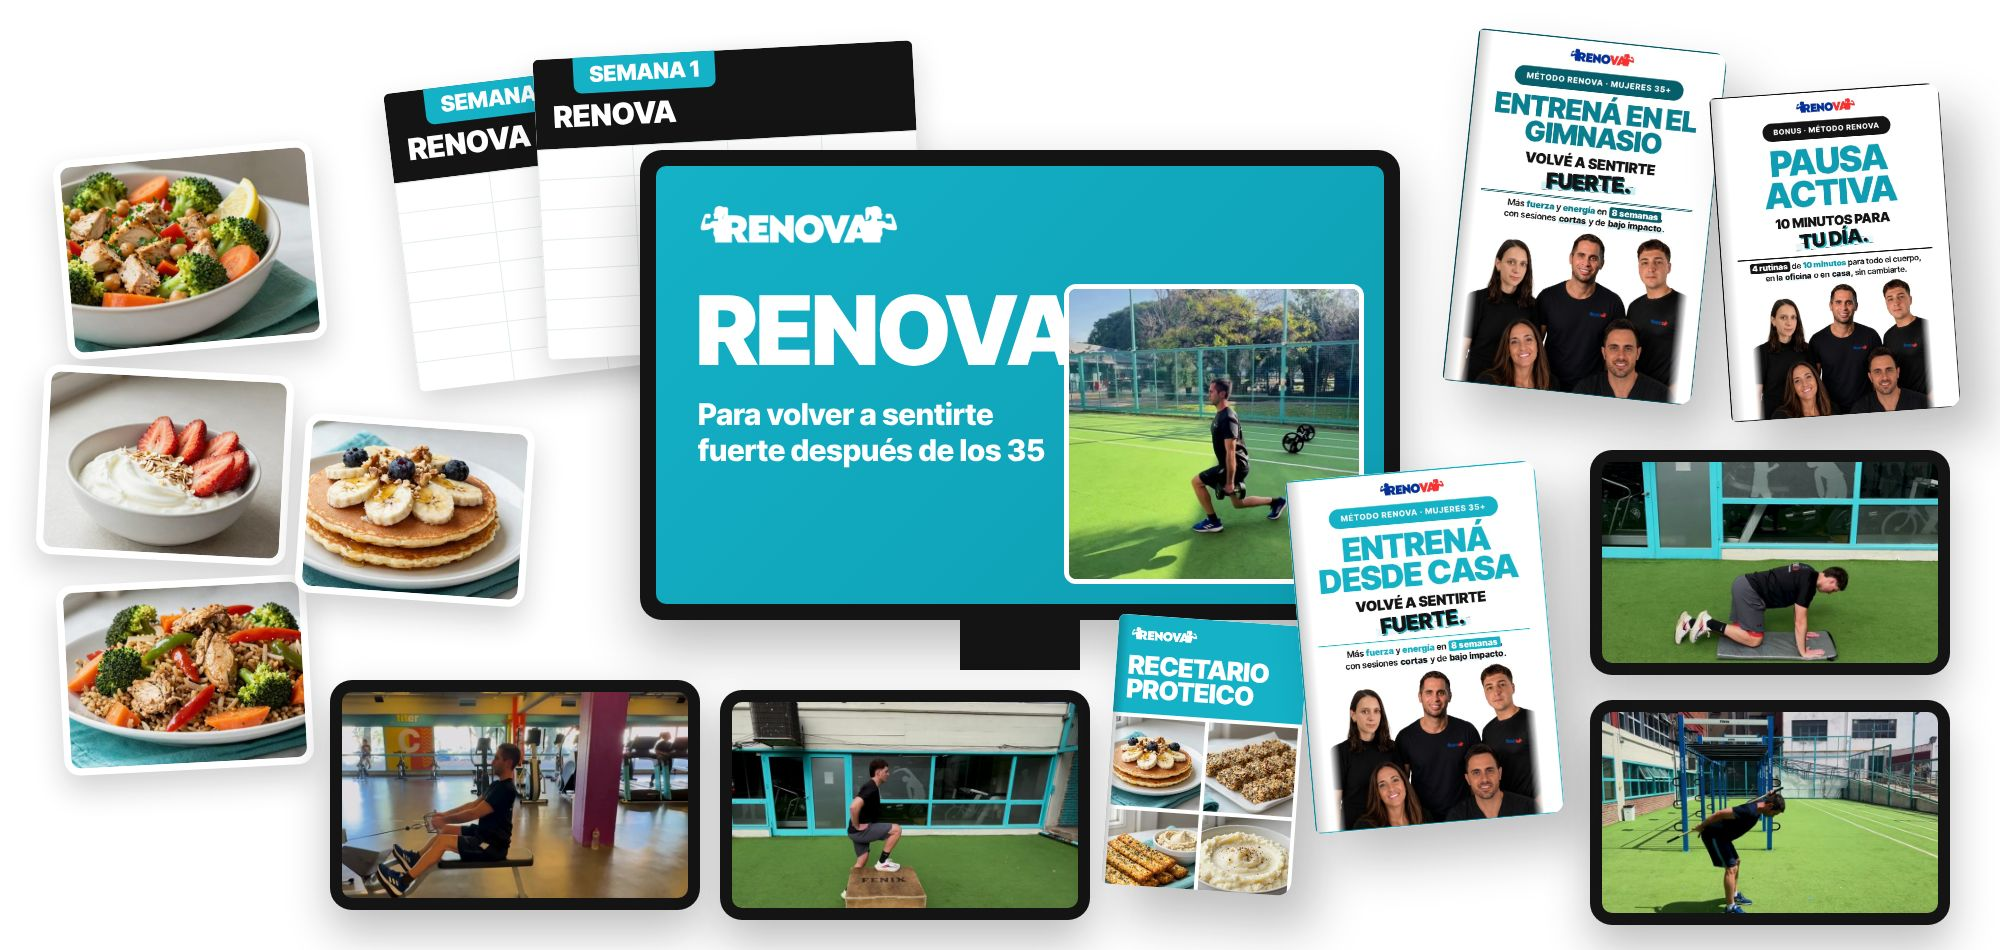
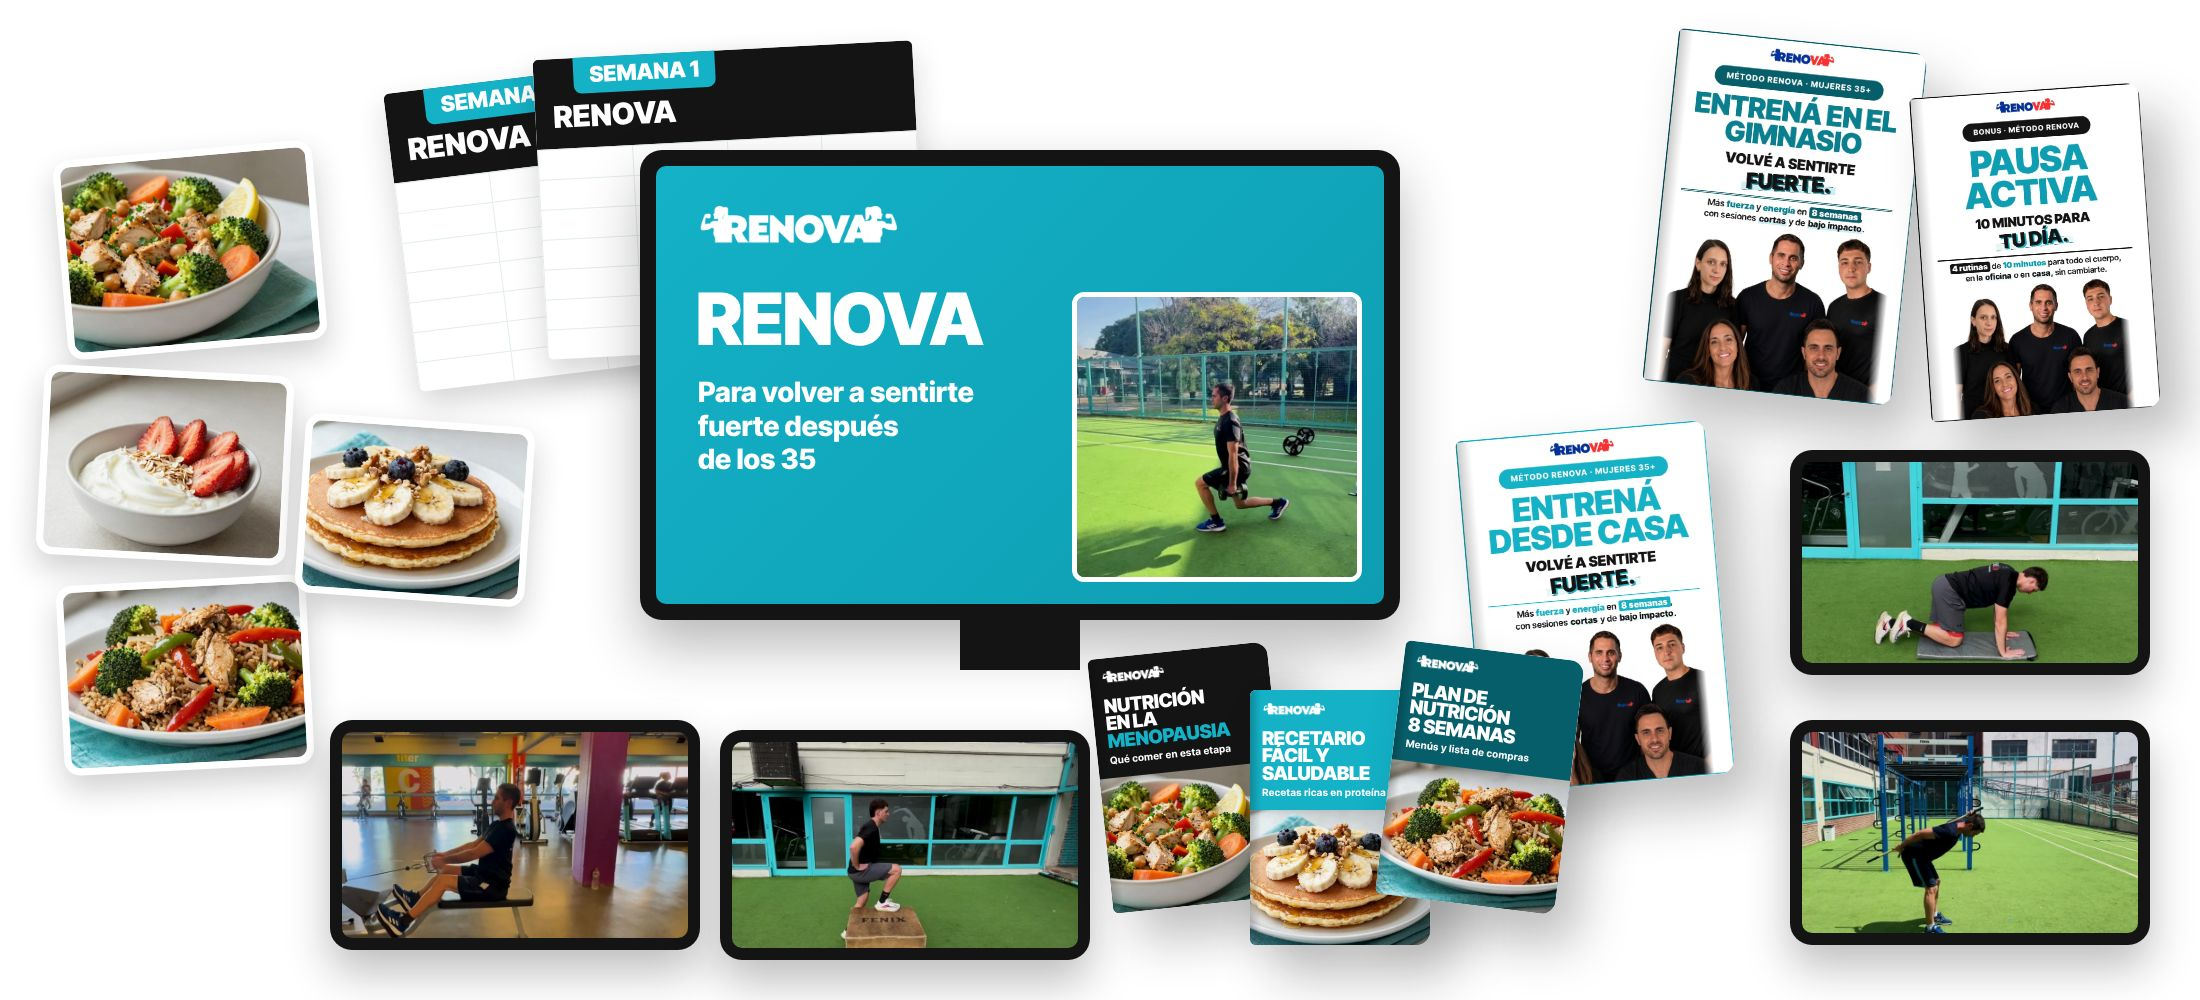
Landing: collage con RENOVA sin cortar y 3 ebooks de nutrición
Claude-Session: https://claude.ai/code/session_01BK5fVJJTfveceUzp1xzv1m

diff --git a/fuentes/landing/mockups/programa.html b/fuentes/landing/mockups/programa.html
@@ -23,6 +23,10 @@
   /* ---- Color: logo (solo portada y logo, no para texto corrido) */
   --rnv-azul:#0033A0;
   --rnv-rojo:#E63333;
+  /* ---- Color: sello de garantía (solo el sello dorado) */
+  --rnv-oro:#E2A928;
+  --rnv-oro-claro:#F9DE7E;
+  --rnv-oro-oscuro:#8A5A0B;
   /* ---- Color: neutros */
   --rnv-tinta:#141414;             /* títulos */
   --rnv-texto:#2A2F33;             /* cuerpo */
@@ -94,7 +98,7 @@ body{width:1200px;height:900px;overflow:hidden;font-family:InterW,sans-serif;bac
 .wk{position:absolute;background:var(--rnv-turquesa);color:#fff;font-family:InterTightW,sans-serif;font-weight:900;font-size:56px;padding:4px 22px;border-radius:10px;transform:rotate(-4deg);box-shadow:0 12px 26px rgba(0,0,0,.25)}
 .logo{height:34px;width:auto}
 
-body{width:2000px;height:950px;background:#fff}
+body{width:2200px;height:1000px;background:#fff}
 .tab{position:absolute;background:var(--rnv-tinta);border-radius:22px;padding:12px;box-shadow:0 22px 44px rgba(20,20,20,.28)}
 .tab img{display:block;width:100%;height:100%;object-fit:cover;border-radius:10px}
 .ft{position:absolute;background:#fff;border-radius:16px;padding:7px;box-shadow:0 14px 30px rgba(20,20,20,.2)}
@@ -114,18 +118,18 @@ body{width:2000px;height:950px;background:#fff}
 <div class="ft" style="left:300px;top:420px;width:230px;height:180px;transform:rotate(4deg)"><img src="../img/comida_01.jpg"></div>
 <div class="mon"><div class="scr">
   <img src="../img/logo.png" style="position:absolute;left:40px;top:40px;height:48px;filter:brightness(0) invert(1)">
-  <p class="ttl" style="position:absolute;left:40px;top:120px;font-size:96px">RENOVA</p>
-  <p style="position:absolute;left:42px;top:230px;color:#fff;font-family:InterTightW,sans-serif;font-weight:800;font-size:30px;line-height:1.2">Para volver a sentirte<br>fuerte después de los 35</p>
-  <img src="../img/foto_estocada.jpg" style="position:absolute;right:20px;bottom:20px;width:300px;height:300px;object-fit:cover;border-radius:12px;border:5px solid #fff">
+  <p class="ttl" style="position:absolute;left:40px;top:120px;font-size:72px">RENOVA</p>
+  <p style="position:absolute;left:42px;top:210px;color:#fff;font-family:InterTightW,sans-serif;font-weight:800;font-size:28px;line-height:1.2">Para volver a sentirte<br>fuerte después<br>de los 35</p>
+  <img src="../img/foto_estocada.jpg" style="position:absolute;right:22px;bottom:22px;width:290px;height:290px;object-fit:cover;border-radius:12px;border:5px solid #fff">
 </div></div>
 <div style="position:absolute;left:960px;top:620px;width:120px;height:50px;background:var(--rnv-tinta)"></div>
-<div class="bk" style="left:1460px;top:40px;width:250px;height:354px;transform:rotate(6deg)"><img src="../img/tapa_gym.jpg" style="width:100%;height:100%"></div>
-<div class="bk" style="left:1720px;top:90px;width:230px;height:325px;transform:rotate(-4deg)"><img src="../img/tapa_pausa.jpg" style="width:100%;height:100%"></div>
-<div class="bk" style="left:1300px;top:470px;width:250px;height:354px;transform:rotate(-5deg);z-index:3"><img src="../img/tapa_casa.jpg" style="width:100%;height:100%"></div>
-<div class="tab" style="left:1590px;top:450px;width:360px;height:225px"><img src="../img/foto_l_patada.jpg"></div>
-<div class="tab" style="left:1590px;top:700px;width:360px;height:225px"><img src="../img/foto_l_pesomuerto.jpg"></div>
-<div class="tab" style="left:330px;top:680px;width:370px;height:230px"><img src="../img/foto_l_remo.jpg"></div>
-<div class="tab" style="left:720px;top:690px;width:370px;height:230px;z-index:2"><img src="../img/foto_l_subidas.jpg"></div>
-<div class="bk" style="left:1110px;top:620px;width:190px;height:270px;transform:rotate(4deg);z-index:2"><div class="cv">
-  <div style="background:var(--rnv-turquesa);padding:12px"><img src="../img/logo.png" style="height:16px;filter:brightness(0) invert(1)"><p class="ttl" style="font-size:26px;margin-top:6px">Recetario<br>proteico</p></div>
-  <div class="grid" style="padding:4px;gap:4px"><img src="../img/comida_01.jpg"><img src="../img/comida_05.jpg"><img src="../img/comida_09.jpg"><img src="../img/comida_14.jpg"></div></div></div>
+<div class="bk" style="left:1660px;top:40px;width:250px;height:354px;transform:rotate(6deg)"><img src="../img/tapa_gym.jpg" style="width:100%;height:100%"></div>
+<div class="bk" style="left:1920px;top:90px;width:230px;height:325px;transform:rotate(-4deg)"><img src="../img/tapa_pausa.jpg" style="width:100%;height:100%"></div>
+<div class="bk" style="left:1470px;top:430px;width:250px;height:354px;transform:rotate(-5deg);z-index:3"><img src="../img/tapa_casa.jpg" style="width:100%;height:100%"></div>
+<div class="tab" style="left:1790px;top:450px;width:360px;height:225px"><img src="../img/foto_l_patada.jpg"></div>
+<div class="tab" style="left:1790px;top:720px;width:360px;height:225px"><img src="../img/foto_l_pesomuerto.jpg"></div>
+<div class="tab" style="left:330px;top:720px;width:370px;height:230px"><img src="../img/foto_l_remo.jpg"></div>
+<div class="tab" style="left:720px;top:730px;width:370px;height:230px;z-index:2"><img src="../img/foto_l_subidas.jpg"></div>
+<div class="bk" style="left:1100px;top:650px;width:180px;height:255px;transform:rotate(-6deg);z-index:4"><div class="cv" style="background:var(--rnv-tinta)"><div style="padding:12px"><img src="../img/logo.png" style="height:15px;filter:brightness(0) invert(1)"><p class="ttl" style="font-size:19px;margin-top:8px">Nutrición<br>en la<br><span style="color:var(--rnv-turquesa)">menopausia</span></p><p style="color:#fff;font-weight:700;font-size:10px;margin-top:4px">Qué comer en esta etapa</p></div><div style="flex:1;background:url(../img/comida_11.jpg) center/cover"></div></div></div>
+<div class="bk" style="left:1250px;top:690px;width:180px;height:255px;transform:rotate(0deg);z-index:4"><div class="cv" style="background:var(--rnv-turquesa)"><div style="padding:12px"><img src="../img/logo.png" style="height:15px;filter:brightness(0) invert(1)"><p class="ttl" style="font-size:19px;margin-top:8px">Recetario<br>fácil y<br>saludable</p><p style="color:#fff;font-weight:700;font-size:10px;margin-top:4px">Recetas ricas en proteína</p></div><div style="flex:1;background:url(../img/comida_01.jpg) center/cover"></div></div></div>
+<div class="bk" style="left:1390px;top:650px;width:180px;height:255px;transform:rotate(7deg);z-index:4"><div class="cv" style="background:var(--rnv-turquesa-profundo)"><div style="padding:12px"><img src="../img/logo.png" style="height:15px;filter:brightness(0) invert(1)"><p class="ttl" style="font-size:19px;margin-top:8px">Plan de<br>nutrición<br>8 semanas</p><p style="color:#fff;font-weight:700;font-size:10px;margin-top:4px">Menús y lista de compras</p></div><div style="flex:1;background:url(../img/comida_15.jpg) center/cover"></div></div></div>

diff --git a/fuentes/landing/mockups/mockups.js b/fuentes/landing/mockups/mockups.js
@@ -3,7 +3,7 @@ const { chromium } = require('playwright');
 (async () => {
   const b = await chromium.launch();
   for (const [src, out] of [['nutricion.html', 'mock_nutricion.jpg'], ['programa.html', 'mock_programa.jpg']]) {
-    const p = await b.newPage({ viewport: src === 'programa.html' ? { width: 2000, height: 950 } : { width: 1200, height: 900 } });
+    const p = await b.newPage({ viewport: src === 'programa.html' ? { width: 2200, height: 1000 } : { width: 1200, height: 900 } });
     await p.goto('file://' + __dirname + '/' + src); await p.waitForTimeout(600);
     await p.screenshot({ path: __dirname + '/../img/' + out });
   }

diff --git a/fuentes/landing/mockups/nutricion.html b/fuentes/landing/mockups/nutricion.html
@@ -23,6 +23,10 @@
   /* ---- Color: logo (solo portada y logo, no para texto corrido) */
   --rnv-azul:#0033A0;
   --rnv-rojo:#E63333;
+  /* ---- Color: sello de garantía (solo el sello dorado) */
+  --rnv-oro:#E2A928;
+  --rnv-oro-claro:#F9DE7E;
+  --rnv-oro-oscuro:#8A5A0B;
   /* ---- Color: neutros */
   --rnv-tinta:#141414;             /* títulos */
   --rnv-texto:#2A2F33;             /* cuerpo */

diff --git a/fuentes/landing/mockups/mockups.py b/fuentes/landing/mockups/mockups.py
@@ -48,7 +48,7 @@ NUT = f"""<!doctype html><meta charset="utf-8"><style>{BASE}</style>
 """
 
 PRO = f"""<!doctype html><meta charset="utf-8"><style>{BASE}
-body{{width:2000px;height:950px;background:#fff}}
+body{{width:2200px;height:1000px;background:#fff}}
 .tab{{position:absolute;background:var(--rnv-tinta);border-radius:22px;padding:12px;box-shadow:0 22px 44px rgba(20,20,20,.28)}}
 .tab img{{display:block;width:100%;height:100%;object-fit:cover;border-radius:10px}}
 .ft{{position:absolute;background:#fff;border-radius:16px;padding:7px;box-shadow:0 14px 30px rgba(20,20,20,.2)}}
@@ -68,21 +68,21 @@ body{{width:2000px;height:950px;background:#fff}}
 <div class="ft" style="left:300px;top:420px;width:230px;height:180px;transform:rotate(4deg)"><img src="{I}comida_01.jpg"></div>
 <div class="mon"><div class="scr">
   <img src="{I}logo.png" style="position:absolute;left:40px;top:40px;height:48px;filter:brightness(0) invert(1)">
-  <p class="ttl" style="position:absolute;left:40px;top:120px;font-size:96px">RENOVA</p>
-  <p style="position:absolute;left:42px;top:230px;color:#fff;font-family:InterTightW,sans-serif;font-weight:800;font-size:30px;line-height:1.2">Para volver a sentirte<br>fuerte después de los 35</p>
-  <img src="{I}foto_estocada.jpg" style="position:absolute;right:20px;bottom:20px;width:300px;height:300px;object-fit:cover;border-radius:12px;border:5px solid #fff">
+  <p class="ttl" style="position:absolute;left:40px;top:120px;font-size:72px">RENOVA</p>
+  <p style="position:absolute;left:42px;top:210px;color:#fff;font-family:InterTightW,sans-serif;font-weight:800;font-size:28px;line-height:1.2">Para volver a sentirte<br>fuerte después<br>de los 35</p>
+  <img src="{I}foto_estocada.jpg" style="position:absolute;right:22px;bottom:22px;width:290px;height:290px;object-fit:cover;border-radius:12px;border:5px solid #fff">
 </div></div>
 <div style="position:absolute;left:960px;top:620px;width:120px;height:50px;background:var(--rnv-tinta)"></div>
-<div class="bk" style="left:1460px;top:40px;width:250px;height:354px;transform:rotate(6deg)"><img src="{I}tapa_gym.jpg" style="width:100%;height:100%"></div>
-<div class="bk" style="left:1720px;top:90px;width:230px;height:325px;transform:rotate(-4deg)"><img src="{I}tapa_pausa.jpg" style="width:100%;height:100%"></div>
-<div class="bk" style="left:1300px;top:470px;width:250px;height:354px;transform:rotate(-5deg);z-index:3"><img src="{I}tapa_casa.jpg" style="width:100%;height:100%"></div>
-<div class="tab" style="left:1590px;top:450px;width:360px;height:225px"><img src="{I}foto_l_patada.jpg"></div>
-<div class="tab" style="left:1590px;top:700px;width:360px;height:225px"><img src="{I}foto_l_pesomuerto.jpg"></div>
-<div class="tab" style="left:330px;top:680px;width:370px;height:230px"><img src="{I}foto_l_remo.jpg"></div>
-<div class="tab" style="left:720px;top:690px;width:370px;height:230px;z-index:2"><img src="{I}foto_l_subidas.jpg"></div>
-<div class="bk" style="left:1110px;top:620px;width:190px;height:270px;transform:rotate(4deg);z-index:2"><div class="cv">
-  <div style="background:var(--rnv-turquesa);padding:12px"><img src="{I}logo.png" style="height:16px;filter:brightness(0) invert(1)"><p class="ttl" style="font-size:26px;margin-top:6px">Recetario<br>proteico</p></div>
-  <div class="grid" style="padding:4px;gap:4px"><img src="{I}comida_01.jpg"><img src="{I}comida_05.jpg"><img src="{I}comida_09.jpg"><img src="{I}comida_14.jpg"></div></div></div>
+<div class="bk" style="left:1660px;top:40px;width:250px;height:354px;transform:rotate(6deg)"><img src="{I}tapa_gym.jpg" style="width:100%;height:100%"></div>
+<div class="bk" style="left:1920px;top:90px;width:230px;height:325px;transform:rotate(-4deg)"><img src="{I}tapa_pausa.jpg" style="width:100%;height:100%"></div>
+<div class="bk" style="left:1470px;top:430px;width:250px;height:354px;transform:rotate(-5deg);z-index:3"><img src="{I}tapa_casa.jpg" style="width:100%;height:100%"></div>
+<div class="tab" style="left:1790px;top:450px;width:360px;height:225px"><img src="{I}foto_l_patada.jpg"></div>
+<div class="tab" style="left:1790px;top:720px;width:360px;height:225px"><img src="{I}foto_l_pesomuerto.jpg"></div>
+<div class="tab" style="left:330px;top:720px;width:370px;height:230px"><img src="{I}foto_l_remo.jpg"></div>
+<div class="tab" style="left:720px;top:730px;width:370px;height:230px;z-index:2"><img src="{I}foto_l_subidas.jpg"></div>
+<div class="bk" style="left:1100px;top:650px;width:180px;height:255px;transform:rotate(-6deg);z-index:4"><div class="cv" style="background:var(--rnv-tinta)"><div style="padding:12px"><img src="{I}logo.png" style="height:15px;filter:brightness(0) invert(1)"><p class="ttl" style="font-size:19px;margin-top:8px">Nutrición<br>en la<br><span style=\"color:var(--rnv-turquesa)\">menopausia</span></p><p style="color:#fff;font-weight:700;font-size:10px;margin-top:4px">Qué comer en esta etapa</p></div><div style="flex:1;background:url({I}comida_11.jpg) center/cover"></div></div></div>
+<div class="bk" style="left:1250px;top:690px;width:180px;height:255px;transform:rotate(0deg);z-index:4"><div class="cv" style="background:var(--rnv-turquesa)"><div style="padding:12px"><img src="{I}logo.png" style="height:15px;filter:brightness(0) invert(1)"><p class="ttl" style="font-size:19px;margin-top:8px">Recetario<br>fácil y<br>saludable</p><p style="color:#fff;font-weight:700;font-size:10px;margin-top:4px">Recetas ricas en proteína</p></div><div style="flex:1;background:url({I}comida_01.jpg) center/cover"></div></div></div>
+<div class="bk" style="left:1390px;top:650px;width:180px;height:255px;transform:rotate(7deg);z-index:4"><div class="cv" style="background:var(--rnv-turquesa-profundo)"><div style="padding:12px"><img src="{I}logo.png" style="height:15px;filter:brightness(0) invert(1)"><p class="ttl" style="font-size:19px;margin-top:8px">Plan de<br>nutrición<br>8 semanas</p><p style="color:#fff;font-weight:700;font-size:10px;margin-top:4px">Menús y lista de compras</p></div><div style="flex:1;background:url({I}comida_15.jpg) center/cover"></div></div></div>
 """
 Path("nutricion.html").write_text(NUT)
 Path("programa.html").write_text(PRO)
